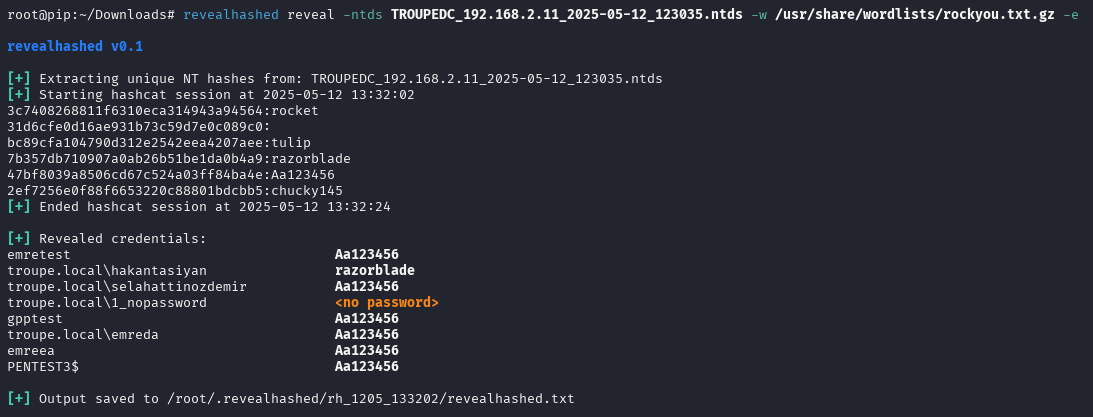
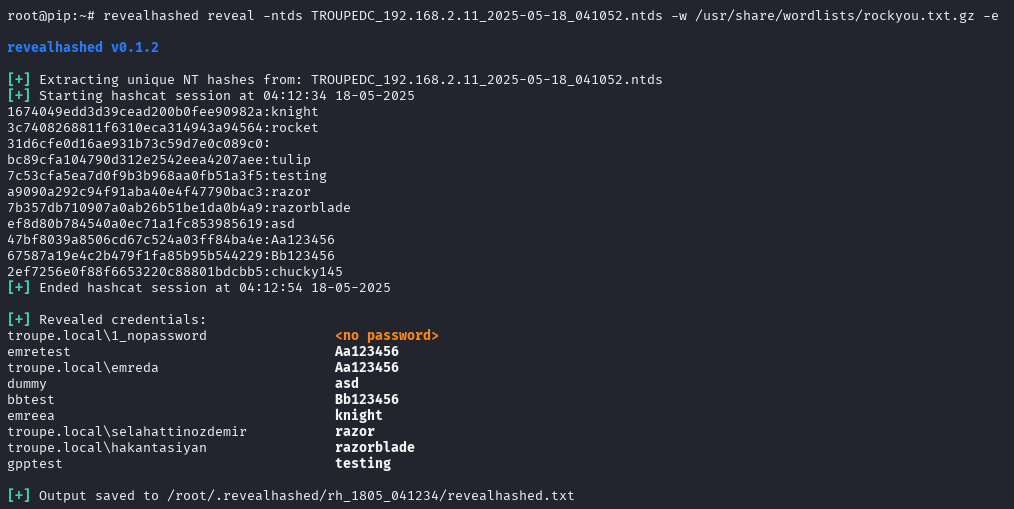
v0.1.2

Changed region(s): [[0.0, 0.0, 1.0, 0.9976]]

diff --git a/revealhashed/core.py b/revealhashed/core.py
@@ -51,8 +51,9 @@ def parse_args():
     
     # subparser: reveal
     reveal_parser = subparsers.add_parser("reveal", help="Use your own NTDS dump then reveal credentials with it")
-    reveal_parser.add_argument("-ntds", help="Path to .ntds file", required=True)
-    reveal_parser.add_argument("-w", "--wordlists", nargs="+", metavar="WORDLIST WORDLIST2", help="Wordlists to use with hashcat", required=True)
+    reveal_parser.add_argument("-ntds", help="Path to .ntds file")
+    reveal_parser.add_argument("-nxc", action="store_true", help="Scan $HOME/.nxc/logs/ntds for .ntds files")
+    reveal_parser.add_argument("-w", "--wordlists", nargs="+", metavar="WORDLIST WORDLIST2", help="Wordlists to use with hashcat", required=False)
     reveal_parser.add_argument("-e", "--enabled-only", action="store_true", help="Only show enabled accounts")
 
     return parser
@@ -100,10 +101,10 @@ def extract_unique_hashes(ntds_path, output_path, full_output_path, write_full_o
         raise
 
 def run_hashcat(hashes_file, wordlists):
-    start = datetime.now().strftime("%Y-%m-%d %H:%M:%S")
+    start = datetime.now().strftime("%H:%M:%S %d-%m-%Y")
     print(f"{BOLD_GREEN}[+]{RESET} Starting hashcat session at {start}")
     subprocess.run(["hashcat", "-m1000", str(hashes_file), *wordlists, "--quiet"])
-    end = datetime.now().strftime("%Y-%m-%d %H:%M:%S")
+    end = datetime.now().strftime("%H:%M:%S %d-%m-%Y")
     print(f"{BOLD_GREEN}[+]{RESET} Ended hashcat session at {end}")
 
 def parse_potfile(potfile_path):
@@ -168,7 +169,7 @@ def reveal_credentials(individual_ntds_path, cracked_hashes, session_dir, enable
     print(f"\n{BOLD_GREEN}[+]{RESET} Output saved to {output_file}")
 
 def main():
-    print(f"\n{BOLD_BLUE}revealhashed v0.1{RESET}\n")
+    print(f"\n{BOLD_BLUE}revealhashed v0.1.2{RESET}\n")
 
     parser = parse_args()
     args = parser.parse_args()
@@ -188,16 +189,17 @@ def main():
         ntdsutil_dir = session_dir / "ntdsutil"
         ntdsutil_dir.mkdir(parents=True, exist_ok=True)
         args.outputdir = str(ntdsutil_dir)
-
-        print(f"{BOLD_GREEN}[+]{RESET} Starting NTDS dump with ntdsutil")
+        
+        start = datetime.now().strftime("%H:%M:%S %d-%m-%Y")
+        print(f"{BOLD_GREEN}[+]{RESET} Starting NTDS dump with ntdsutil at {start}")
 
         try:
             ntdsutil.run_ntdsutil(args)
         except Exception as e:
             print(f"{BOLD_RED}[!]{RESET} NTDS dump failed: {e}")
             return
-
-        print(f"{BOLD_GREEN}[+]{RESET} NTDS successfully dumped!")
+        end = datetime.now().strftime("%H:%M:%S %d-%m-%Y")
+        print(f"{BOLD_GREEN}[+]{RESET} NTDS successfully dumped at {end}")
 
         # run secretsdump in the same session folder
         system_path = ntdsutil_dir / "SYSTEM"
@@ -247,11 +249,37 @@ def main():
         reveal_credentials(ind_path, cracked, session_dir, enabled_only=args.enabled_only)
 
     elif args.command == "reveal":
-        if not args.ntds:
-            print(f"{BOLD_RED}[!]{RESET} Please provide an NTDS file with -ntds")
-            return
+        if args.nxc:
+            nxc_dir = Path.home() / ".nxc" / "logs" / "ntds"
+            ntds_files = sorted(nxc_dir.glob("*.ntds"))
+
+            if not ntds_files:
+                print(f"{BOLD_RED}[!]{RESET} No .ntds files found in {nxc_dir}")
+                sys.exit(1)
+
+            print(f"{BOLD_GREEN}[+]{RESET} Found {len(ntds_files)} .ntds files in {nxc_dir}")
+            for idx, f in enumerate(ntds_files):
+                print(f"[{idx}] {f.name}")
+
+            while True:
+                try:
+                    selection = int(input("\nSelect file by index: "))
+                    print()
+                    if 0 <= selection < len(ntds_files):
+                        ntds_path = ntds_files[selection]
+                        args.ntds = str(ntds_path)
+                        break
+                    else:
+                        print(f"\n{BOLD_RED}[!]{RESET} Invalid selection. Try again.")
+                except ValueError:
+                    print(f"\n{BOLD_RED}[!]{RESET} Please enter a valid number.")
+        else:
+            if not args.ntds:
+                print(f"{BOLD_RED}[!]{RESET} Please specify either -ntds or -nxc")
+                sys.exit(1)
+            ntds_path = Path(args.ntds)
         if not args.wordlists:
-            print(f"{BOLD_RED}[!]{RESET} No wordlists provided. Use -w to specify at least one wordlist.")
+            print(f"\n{BOLD_RED}[!]{RESET} No wordlists provided. Use -w to specify at least one wordlist.")
             return
 
         TMP_DIR.mkdir(parents=True, exist_ok=True)
@@ -273,3 +301,10 @@ def main():
 
 if __name__ == "__main__":
     main()
+
+# revealhashed v0.1.2
+# 
+# contact options
+# mail: https://blog.zurrak.com/contact.html
+# twitter: https://twitter.com/tasiyanci
+# linkedin: https://linkedin.com/in/aslanemreaslan

diff --git a/README.md b/README.md
@@ -1,4 +1,5 @@
-## about revealhashed-python v0.1.1
+
+## about revealhashed-python v0.1.2
 revealhashed is a streamlined utility to correlate ntds usernames, nt hashes, and cracked passwords in one view while cutting out time-consuming manual tasks.
 
 ## how to install
@@ -8,9 +9,13 @@ from pypi:
 from github:  
 `pipx install git+https://github.com/crosscutsaw/revealhashed-python`
 
+## don't want to install?
+
+grab revealhashed binary from [releases](https://github.com/crosscutsaw/revealhashed-python/releases/latest) section.
+
 ## how to use
 ```
-revealhashed v0.1
+revealhashed v0.1.2
 
 usage: revealhashed [-h] [-r] {dump,reveal} ...
 
@@ -27,23 +32,28 @@ options:
 just execute `revealhashed -r` to remove contents of ~/.revealhashed
 
 ### revealhashed dump
-this command executes [zblurx's ntdsutil.py](https://github.com/zblurx/ntdsutil.py) then does classic revealhashed operations.
+this command executes [zblurx's ntdsutil.py](https://github.com/zblurx/ntdsutil.py) to dump ntds safely then does classic revealhashed operations.
 
 -w (wordlist) switch is needed. one or more wordlists can be supplied.    
 -e (enabled-only) switch is not needed but suggested. it's self explanatory; only shows enabled users.  
 
-for example: `revealhashed dump 'troupe.local/emreda:Aa123456'@192.168.2.11 -w wordlist1.txt wordlist2.txt -e`
+for example:  
+`revealhashed dump 'troupe.local/emreda:Aa123456'@192.168.2.11 -w wordlist1.txt wordlist2.txt -e`
 
 ### revealhashed reveal
-this command wants to get supplied with ntds file by user then does classic revealhashed operations.
+this command wants to get supplied with ntds file by user then does classic revealhashed operations.  
+_ntds file should contain usernames and hashes. it should be not ntds.dit. example ntds dump can be obtained from repo_
 
--ntds switch is needed.  
+-ntds or -nxc switch is needed. -ntds switch is for a file you own with hashes. -nxc switch is for scanning ~/.nxc/logs/ntds then selecting .ntds file.
 -w (wordlist) switch is needed. one or more wordlists can be supplied.  
 -e (enabled-only) switch is not needed but suggested. it's self explanatory; only shows enabled users.  
 
-for example: `revealhashed reveal -ntds TROUPEDC_192.168.2.11_2025-05-12_123035.ntds -w wordlist1.txt -e`
+for example:  
+`revealhashed reveal -ntds TROUPEDC_192.168.2.11_2025-05-12_123035.ntds -w wordlist1.txt -e`
 
 ## example outputs
 ![](https://raw.githubusercontent.com/crosscutsaw/revealhashed-python/main/rp1.PNG)
 
 ![](https://raw.githubusercontent.com/crosscutsaw/revealhashed-python/main/rp2.PNG)
+
+![](https://raw.githubusercontent.com/crosscutsaw/revealhashed-python/main/rp3.PNG)
